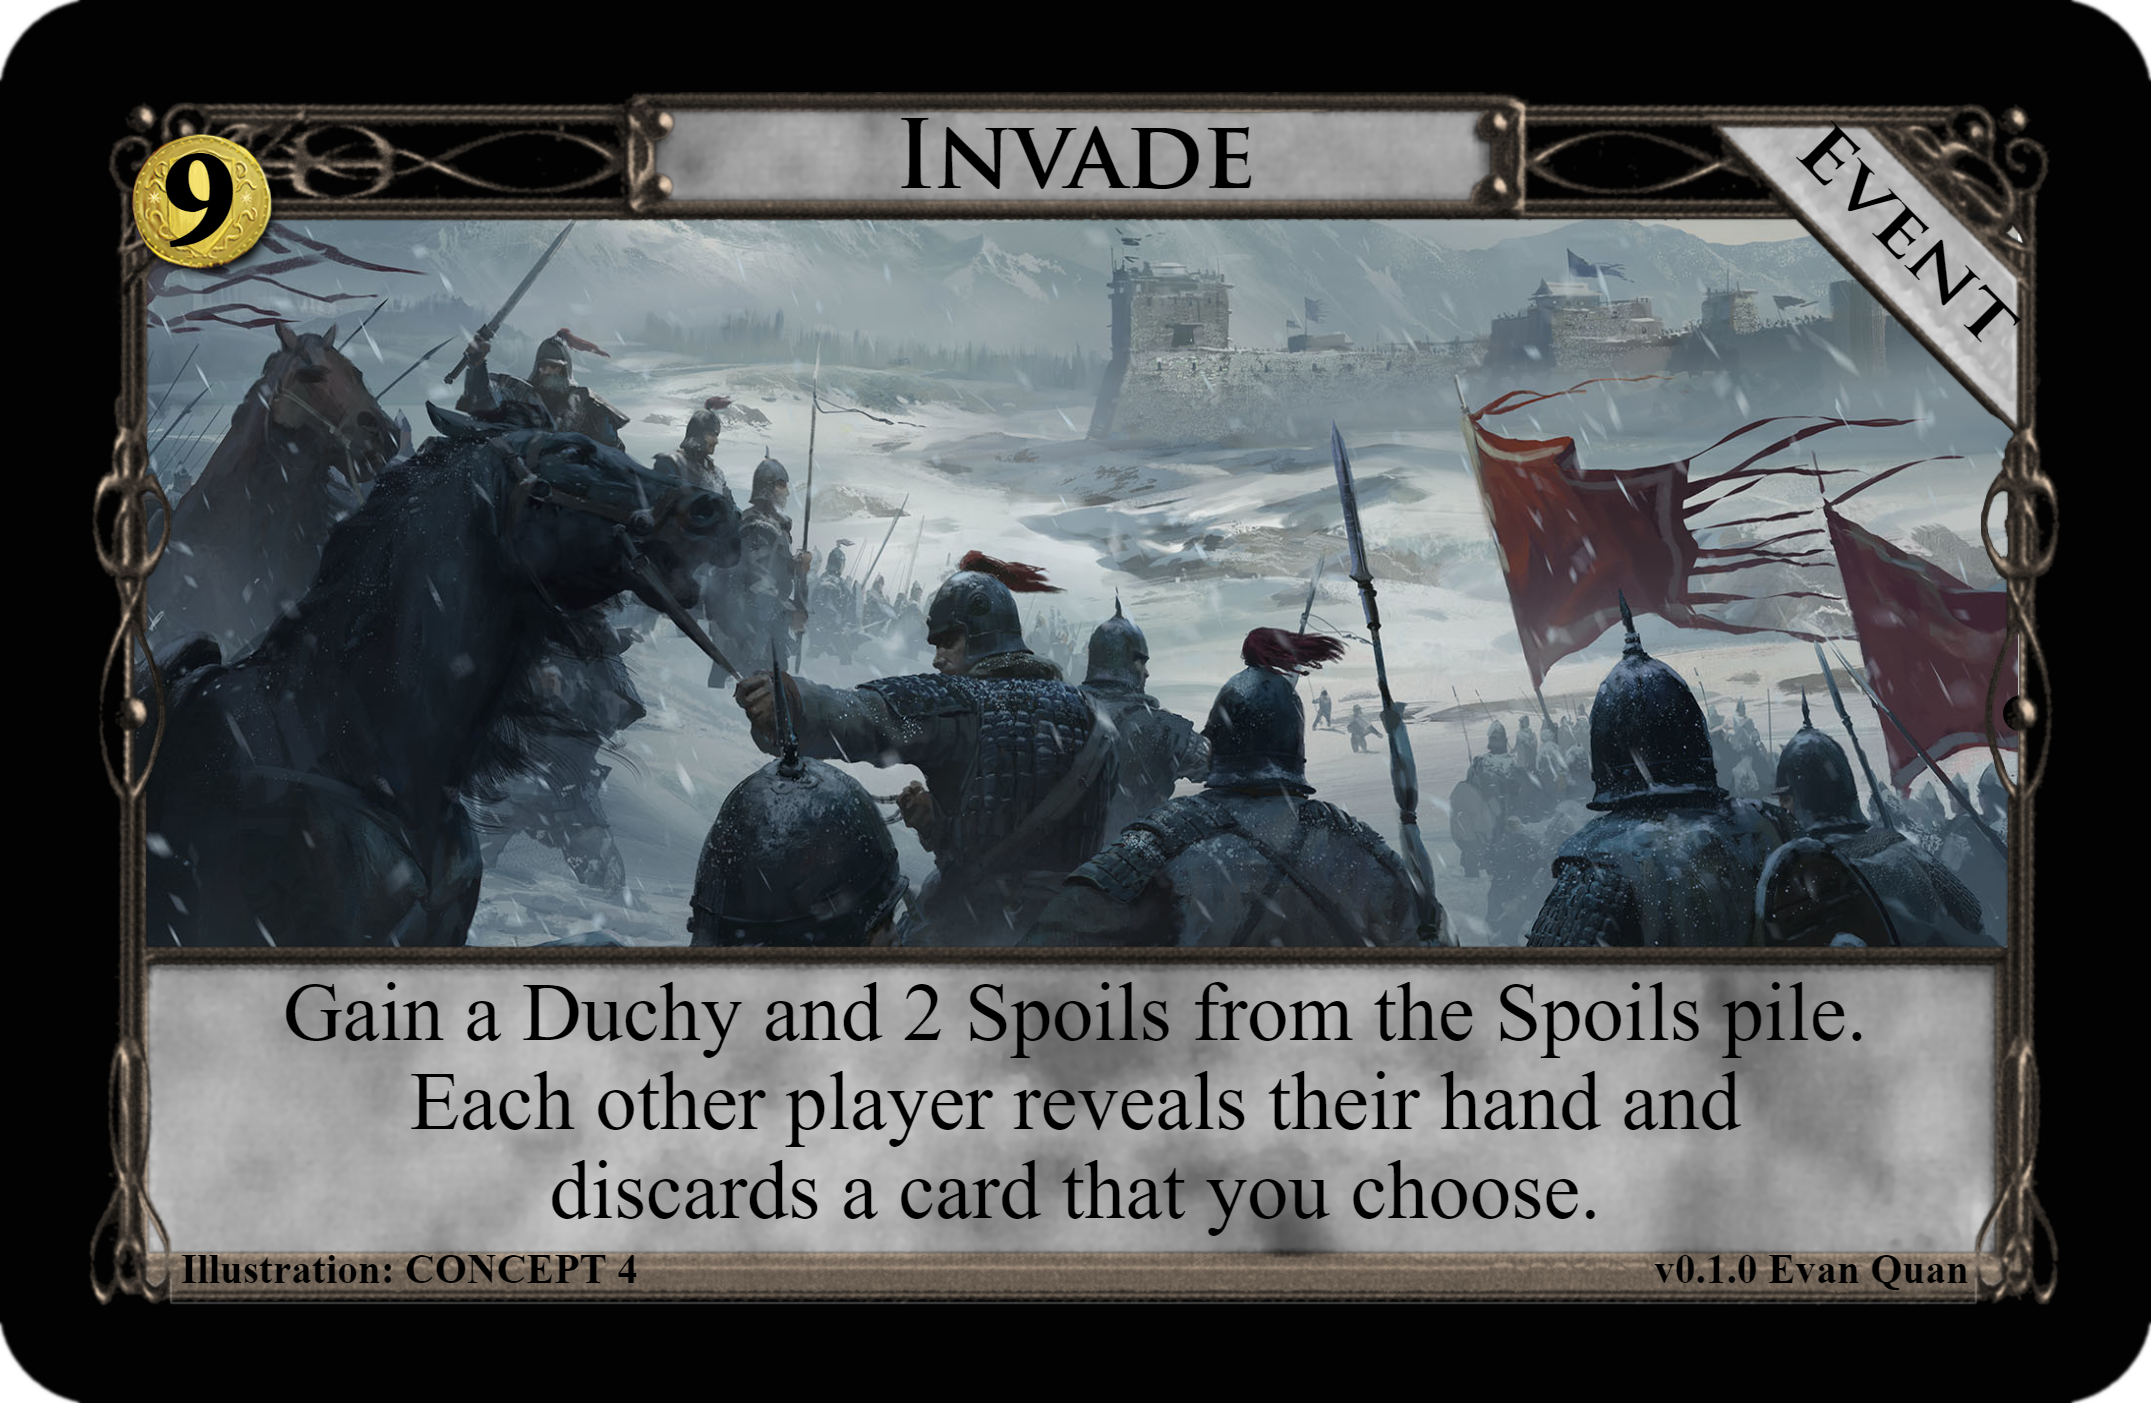
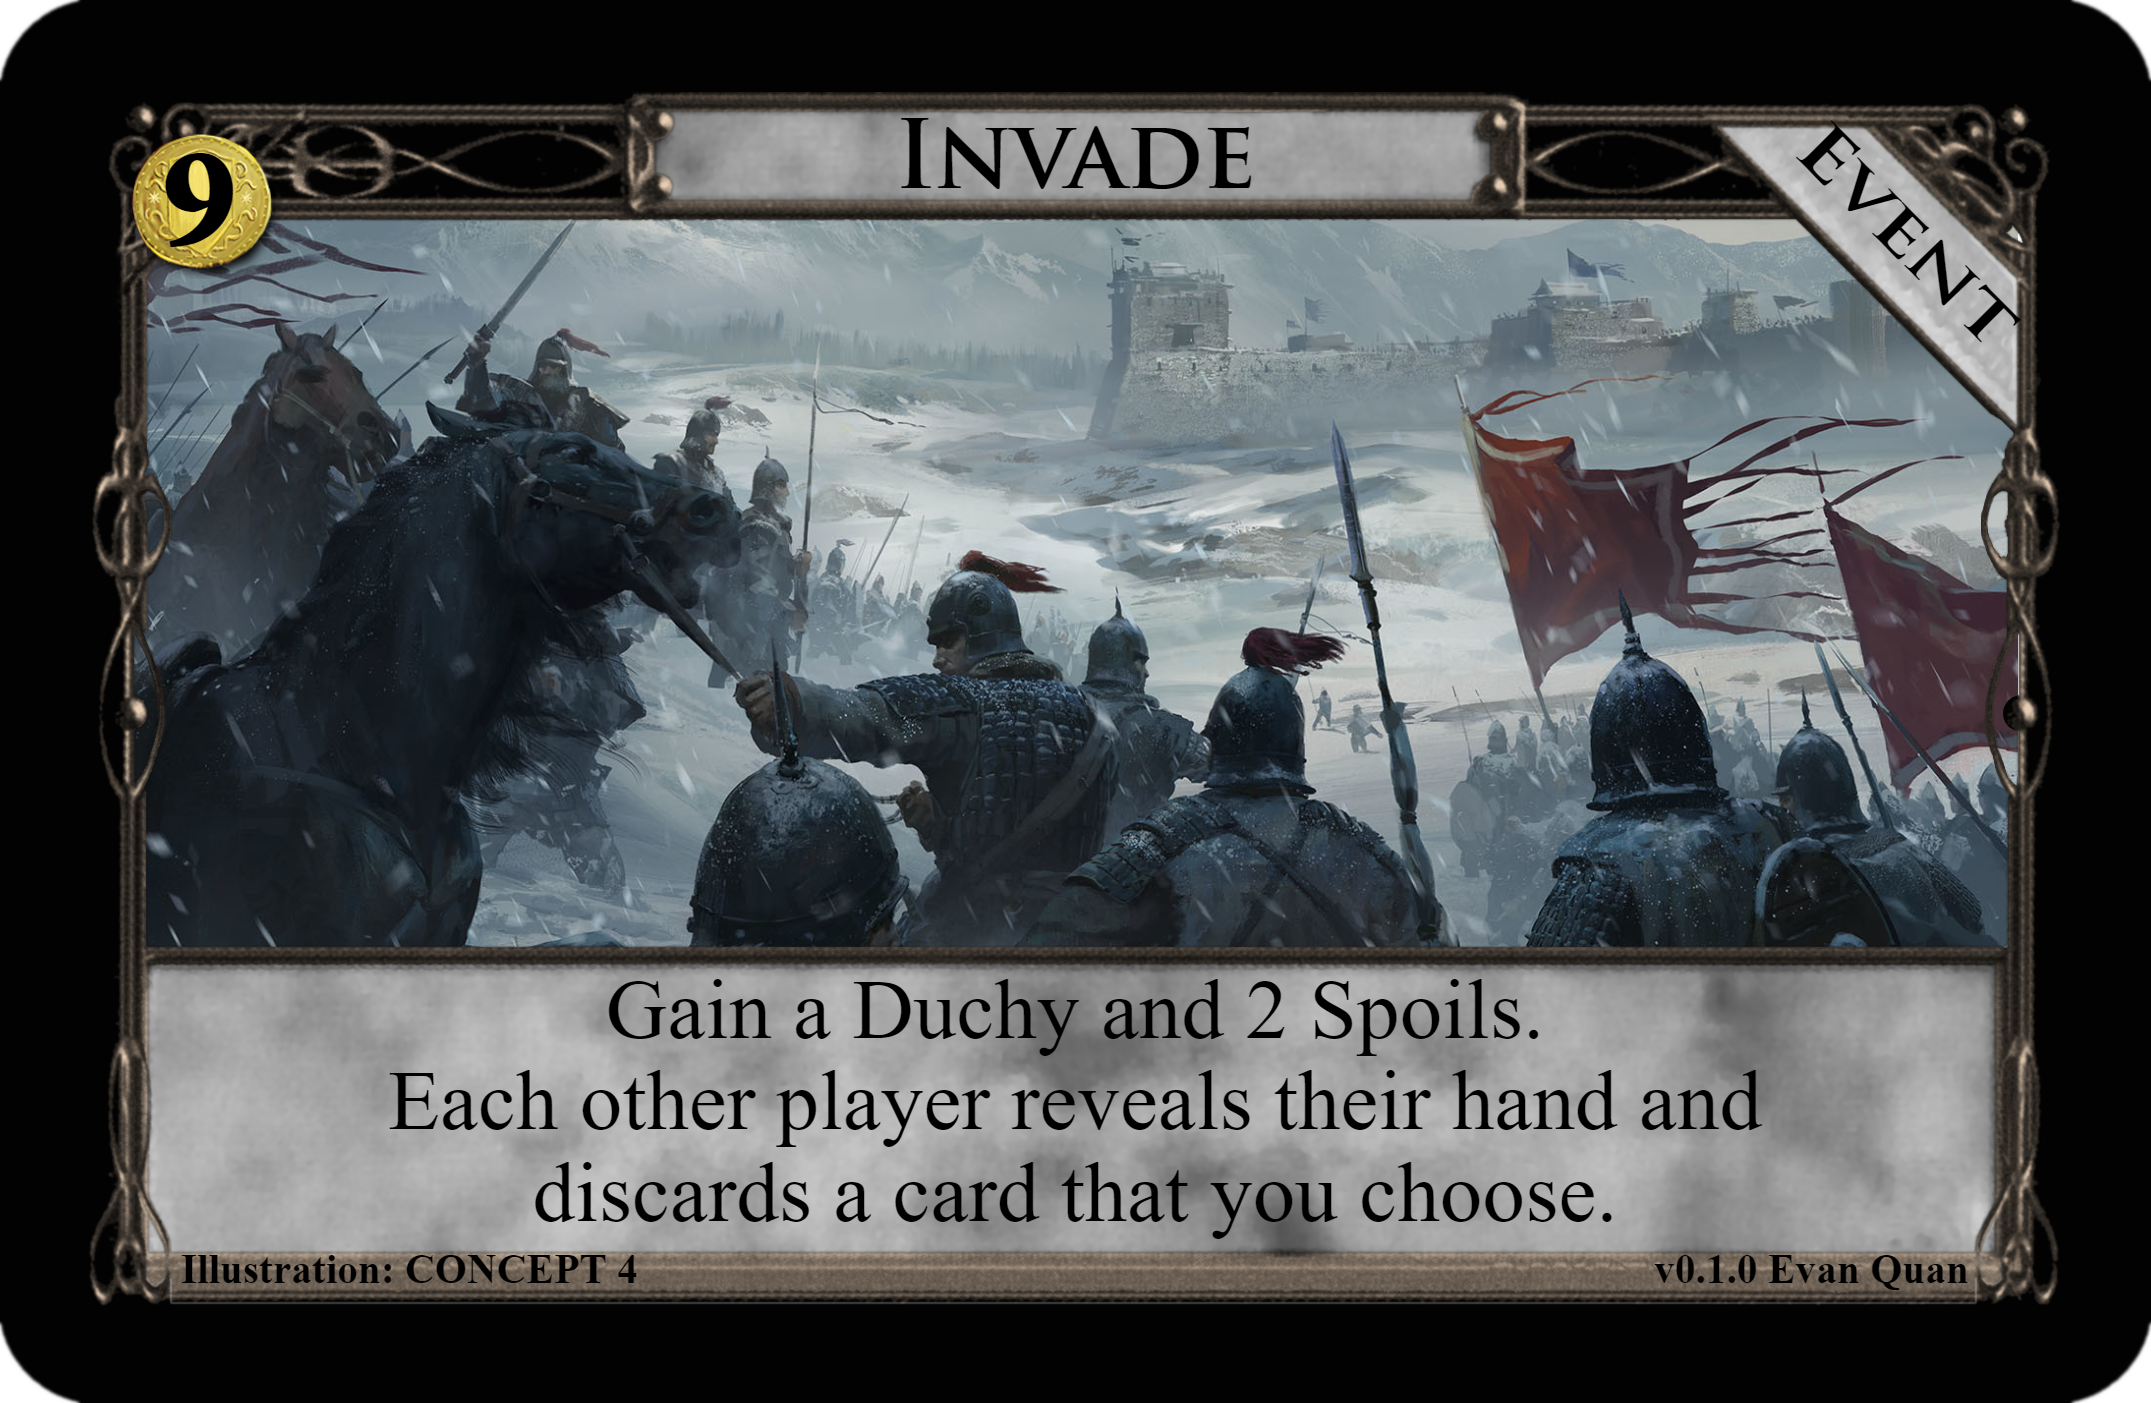
Update phrasing. Add credits.

Changed region(s): [[0.1246, 0.7049, 0.8722, 0.8888]]

diff --git a/Event/Invade.md b/Event/Invade.md
@@ -2,7 +2,18 @@
 
 ![v0.1.0][^v0.1.0]
 
-4 Coins to instantly play a [Pillage][^Pillage].
+---
+
+[Card][^Card]
+
+[Illustrator][^Illustrator]
+
+[Illustration][^Illustration]
+
+---
 
 [^v0.1.0]: /Event/Images/Invade_v0.1.0.png
 [^Pillage]: http://wiki.dominionstrategy.com/index.php/Pillage
+[^Card]: https://shardofhonor.github.io/dominion-card-generator/?title=Invade&description=Gain%20a%20Duchy%20and%202%20Spoils.%0AEach%20other%20player%20reveals%20their%20hand%20and%20discards%20a%20card%20that%20you%20choose.&type=Event&credit=Illustration%3A%20CONCEPT%204&creator=v0.1.0%20Evan%20Quan&price=%249&preview=&type2=&color2split=1&boldkeys=&picture-x=0&picture-y=0.34&picture-zoom=1&picture=https%3A%2F%2Fcdna.artstation.com%2Fp%2Fassets%2Fimages%2Fimages%2F005%2F174%2F104%2Flarge%2Fconcept-4-concept4-attritionwarfare.jpg%3F1489040167&expansion=&custom-icon=&color0=0&color1=0&size=1
+[^Illustrator]: https://www.artstation.com/concept_4
+[^Illustration]: https://www.artstation.com/artwork/QBADB
